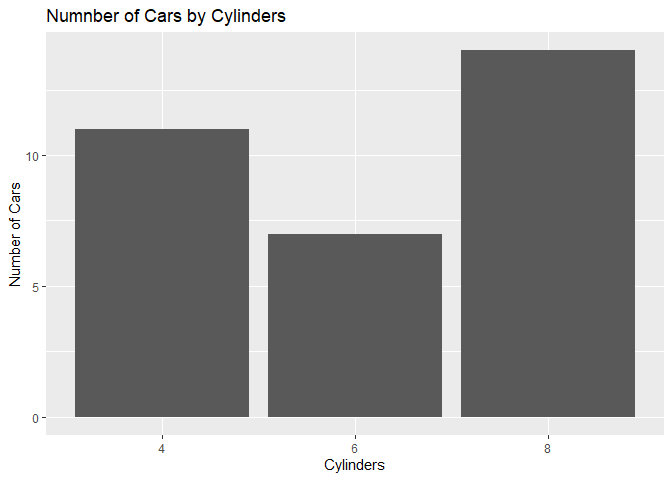
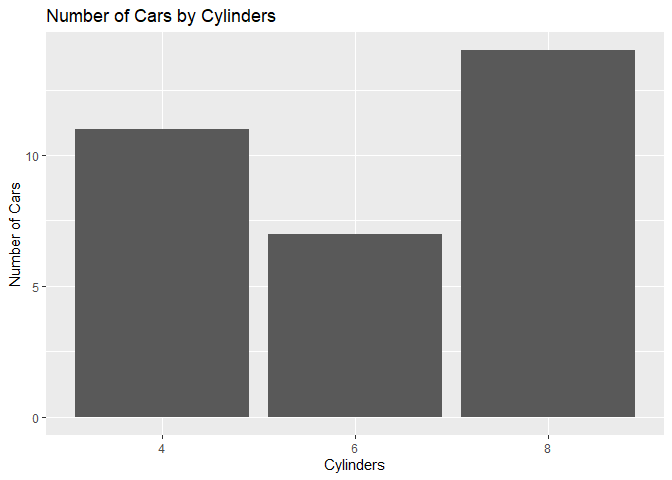
Mijnor tweak

Changed region(s): [[0.125, 0.0, 0.4375, 0.0625]]

diff --git a/README.md b/README.md
@@ -45,7 +45,7 @@ basic_plot <- mtcars |>
   ggplot(aes (x = cyl, y = n)) +
   geom_col() + 
   labs(
-    title = "Numnber of Cars by Cylinders",
+    title = "Number of Cars by Cylinders",
     x = "Cylinders",
     y = "Number of Cars"
   ) 
